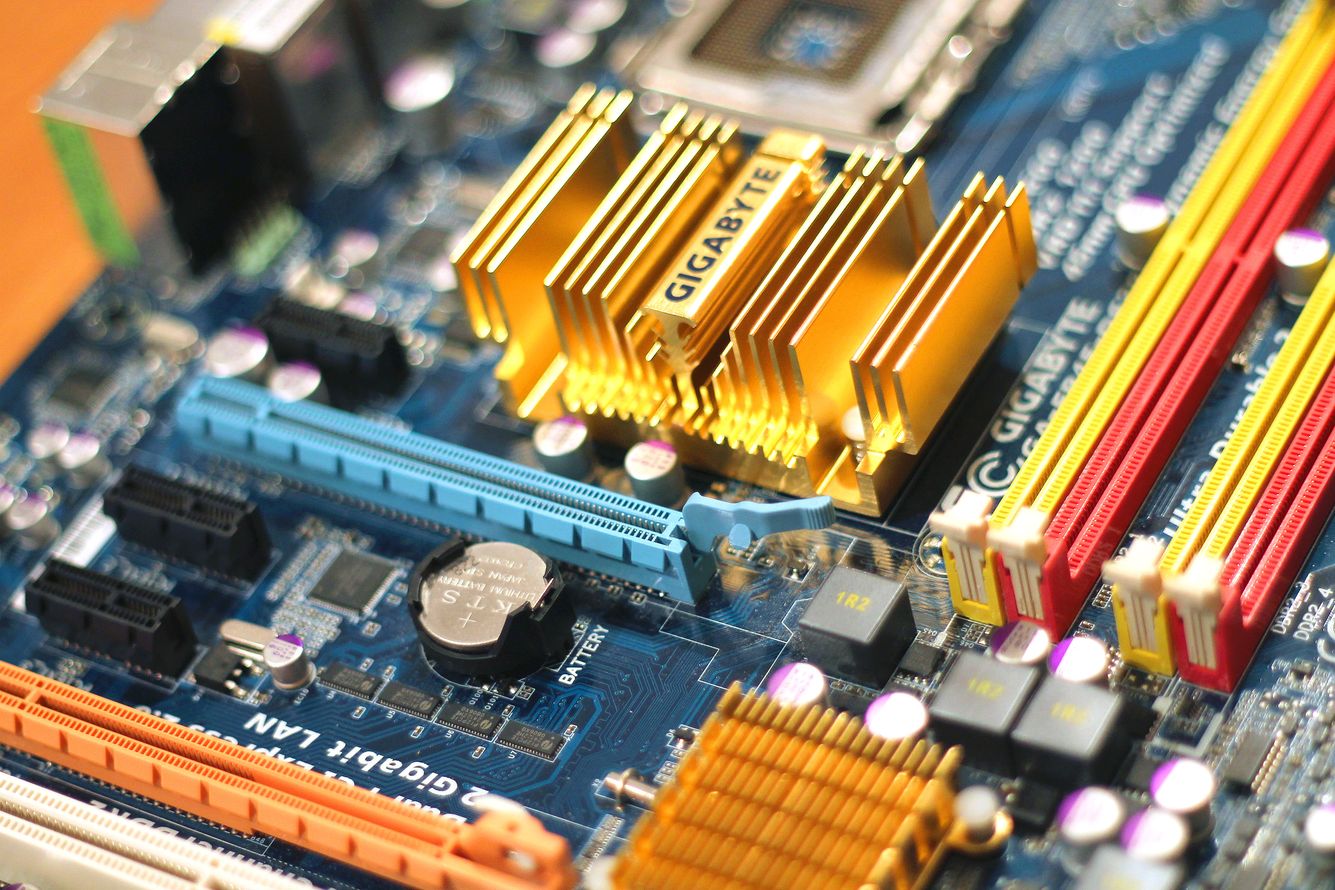
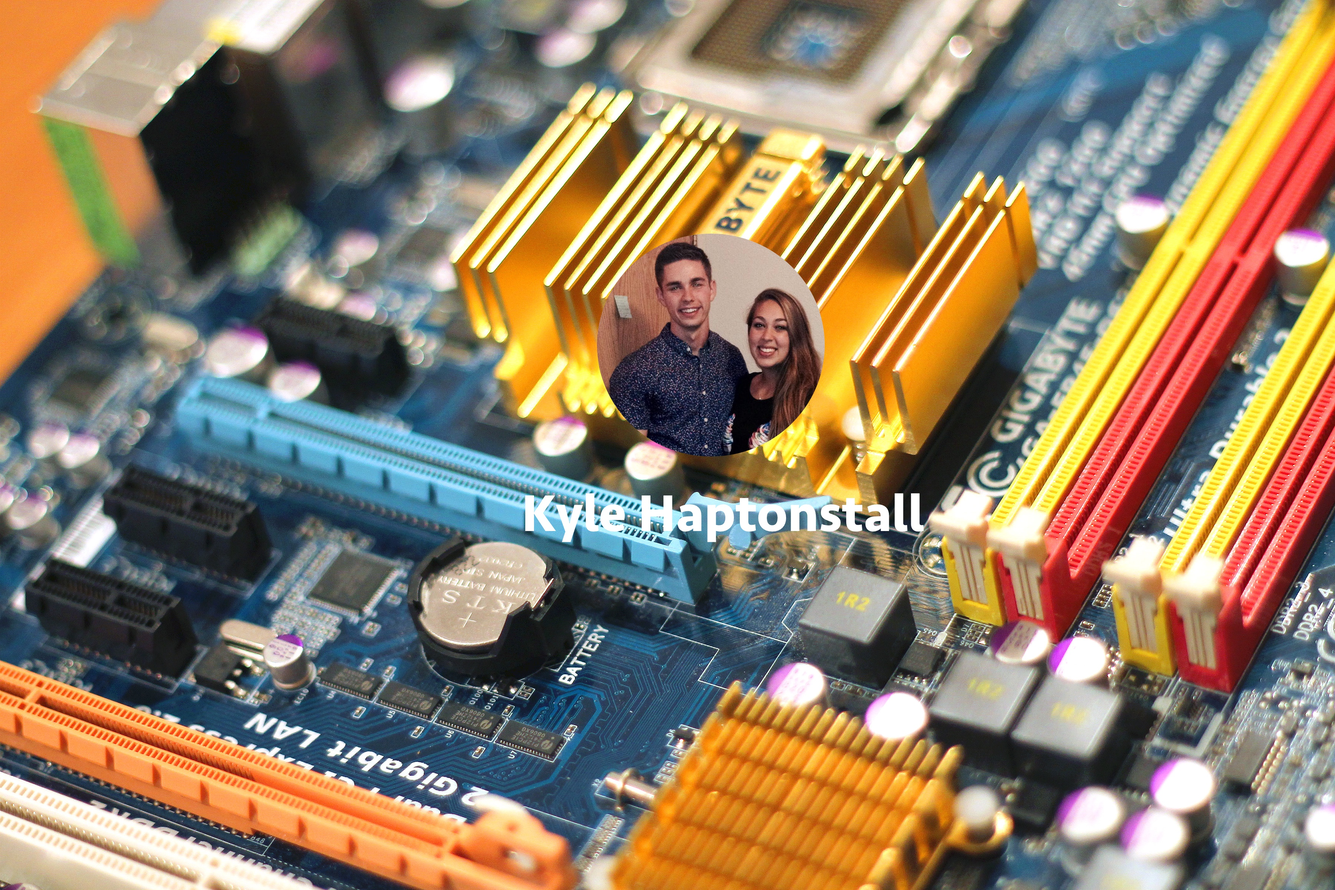
Fixed jumbotron

Changed region(s): [[0.4356, 0.25, 0.6222, 0.5312], [0.3733, 0.5625, 0.7156, 0.625]]

diff --git a/index.html b/index.html
@@ -21,42 +21,21 @@
     </div>
     </div>
 
+    
+      
     <div class="jumbotron">
+        <div class="profile"></div>
       <div class="container">
-        <h1>Kyle Haptonstall</h1>
-        <h2></h2>
       </div>
     </div> 
 
-      
-    <div class="learn-more">
-        <div class="container">
-	       <div class = "row">
-		      <div class="col-md-4">
-			         <h3>Join ACM</h3>
-			         <p>Unlock all the perks of being an ACM member, as well as access to hundreds of online resources and research papers.</p>
-			         <p><a href="joinnow-less.html">Join Now!</a></p>
-		      </div>
-		  <div class="col-md-4">
-			<h3>Meet the Members</h3>
-			<p>Get to know our members.</p>
-			<p><a href="#">Learn more!</a></p>
-		  </div>
-		  <div class="col-md-4">
-			<h3>Donate</h3>
-			<p>Support our chapter.</p>
-			<p><a href="#">Donate Now!</a></p>
-		  </div>
-	    </div>
-	  </div>
-    </div>
-      
+     
+  
       <footer class="small-contact">
-            <p></p>ACM@MC |</p>
-            <p><a href="mailto:monmouthcollegeacm@gmail.com" target="_top">monmouthcollegeacm@gmail.com</a> |</p>
-            <p>Association for Computing Machinery, 700 E. Broadway, Monmouth IL, 61462 |</p>  
+            <p></p>Kyle Haptonstall |</p>
+            <p><a href="mailto:mkhaptonstall93@gmail.com" target="_top">khaptonstall93@gmail.com</a> |</p>
             <a href="https://www.facebook.com/monmouthacm"><i class="fa fa-facebook"></i></a>
-      <a href="https://github.com/ACMMC"><i class="fa fa-github"></i></a>
+      <a href="https://github.com/khaptonstall"><i class="fa fa-github"></i></a>
         </footer>
       
   </body>

diff --git a/main.css b/main.css
@@ -29,28 +29,39 @@
 }
 
 
+
 .jumbotron{
     height: 400px;
-    background-image:url(motherboard.jpg);
+    background-image:url(motherboard.jpg); z-index: 1;
     background-repeat: no-repeat;
     background-position: center;
     background-size: cover;
-    
+}
+
+.jumbotron .profile{
+    background-image: url(kyleandkary.jpg);
+    width: 200px; // These are your circle dimensions
+    height: 200px;
+    border-radius: 50%;
+    background-repeat: no-repeat;
+    background-position: center; // Center image in the circle
+    background-size: cover;
+
 }
 
 .jumbotron .container h1{
     color:white;
     font-family: 'Roboto', sans-serif;
     //font-family:  'Open Sans', sans-serif;
-    font-size: 56px;
+    font-size: 57px;
     font-weight: 700;
     padding-top: 50px;
     text-align: center;
-  
     
 }
 
-.jumbotron h2{
+/*
+.jumbotron h1{
     color:white;
     font-family: 'Roboto', sans-serif;
     //font-family: 'Open Sans', sans-serif;
@@ -59,7 +70,7 @@
     text-align: center;
   
     
-}
+}*/
 
 .jumbotron .container{
     text-align: center;
